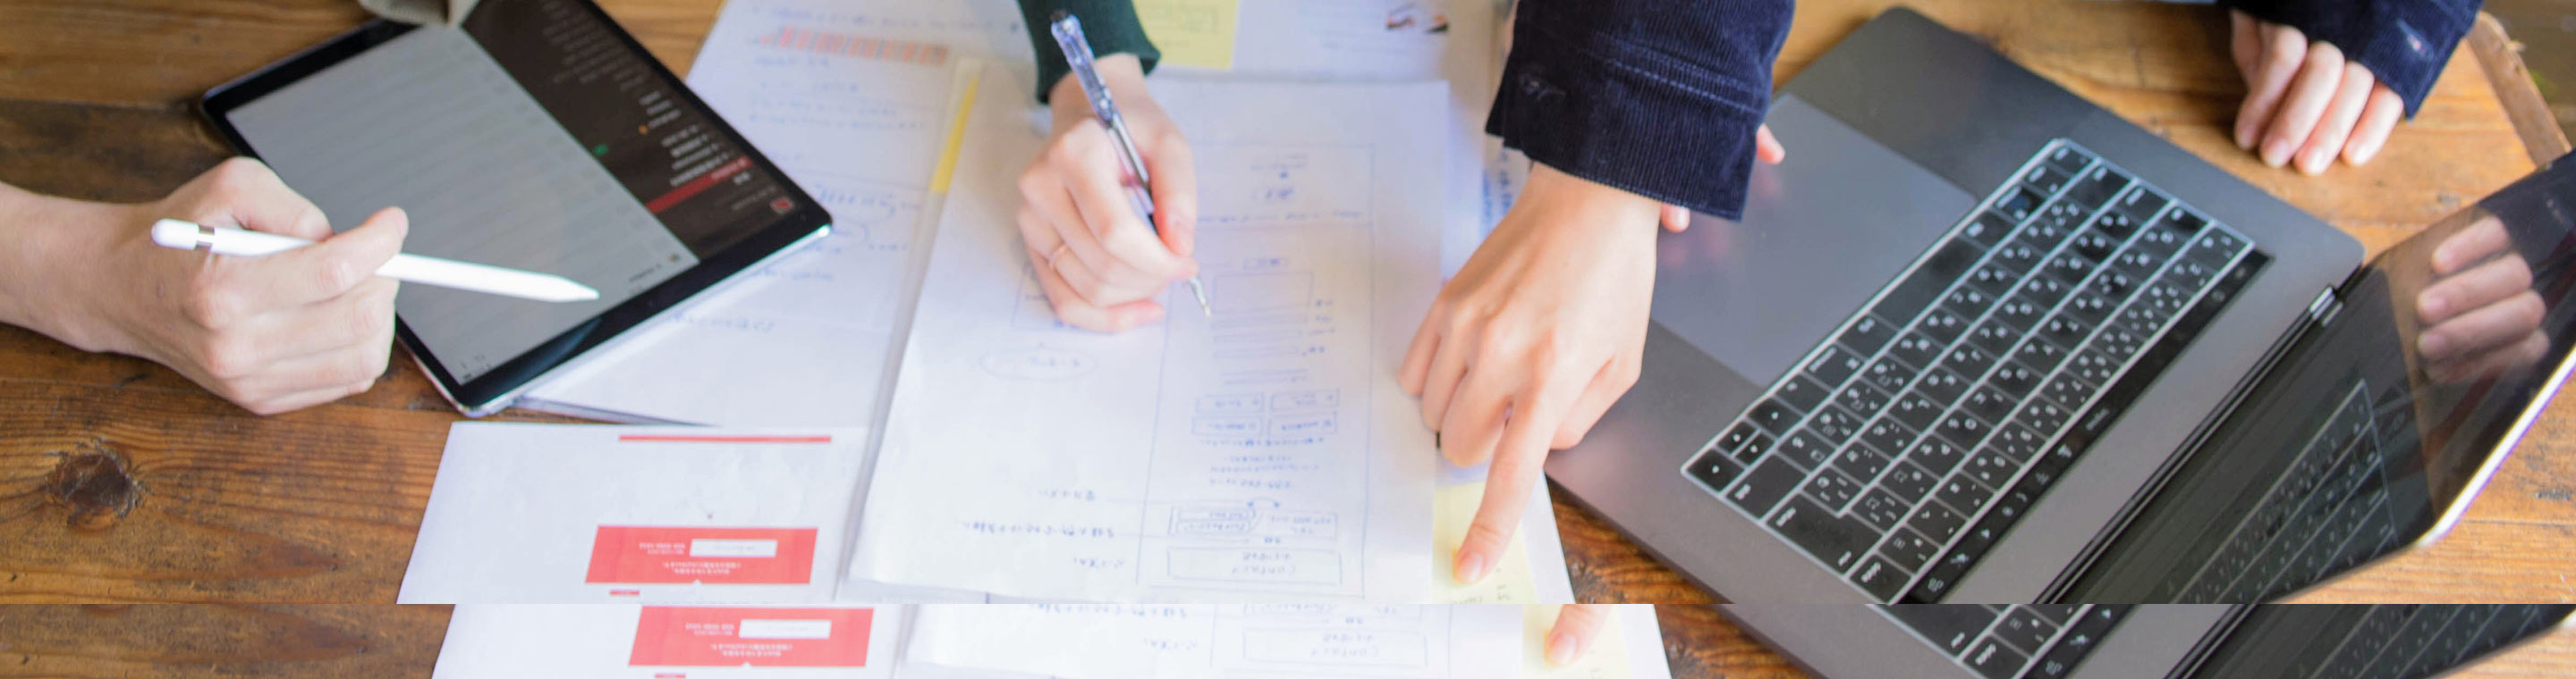
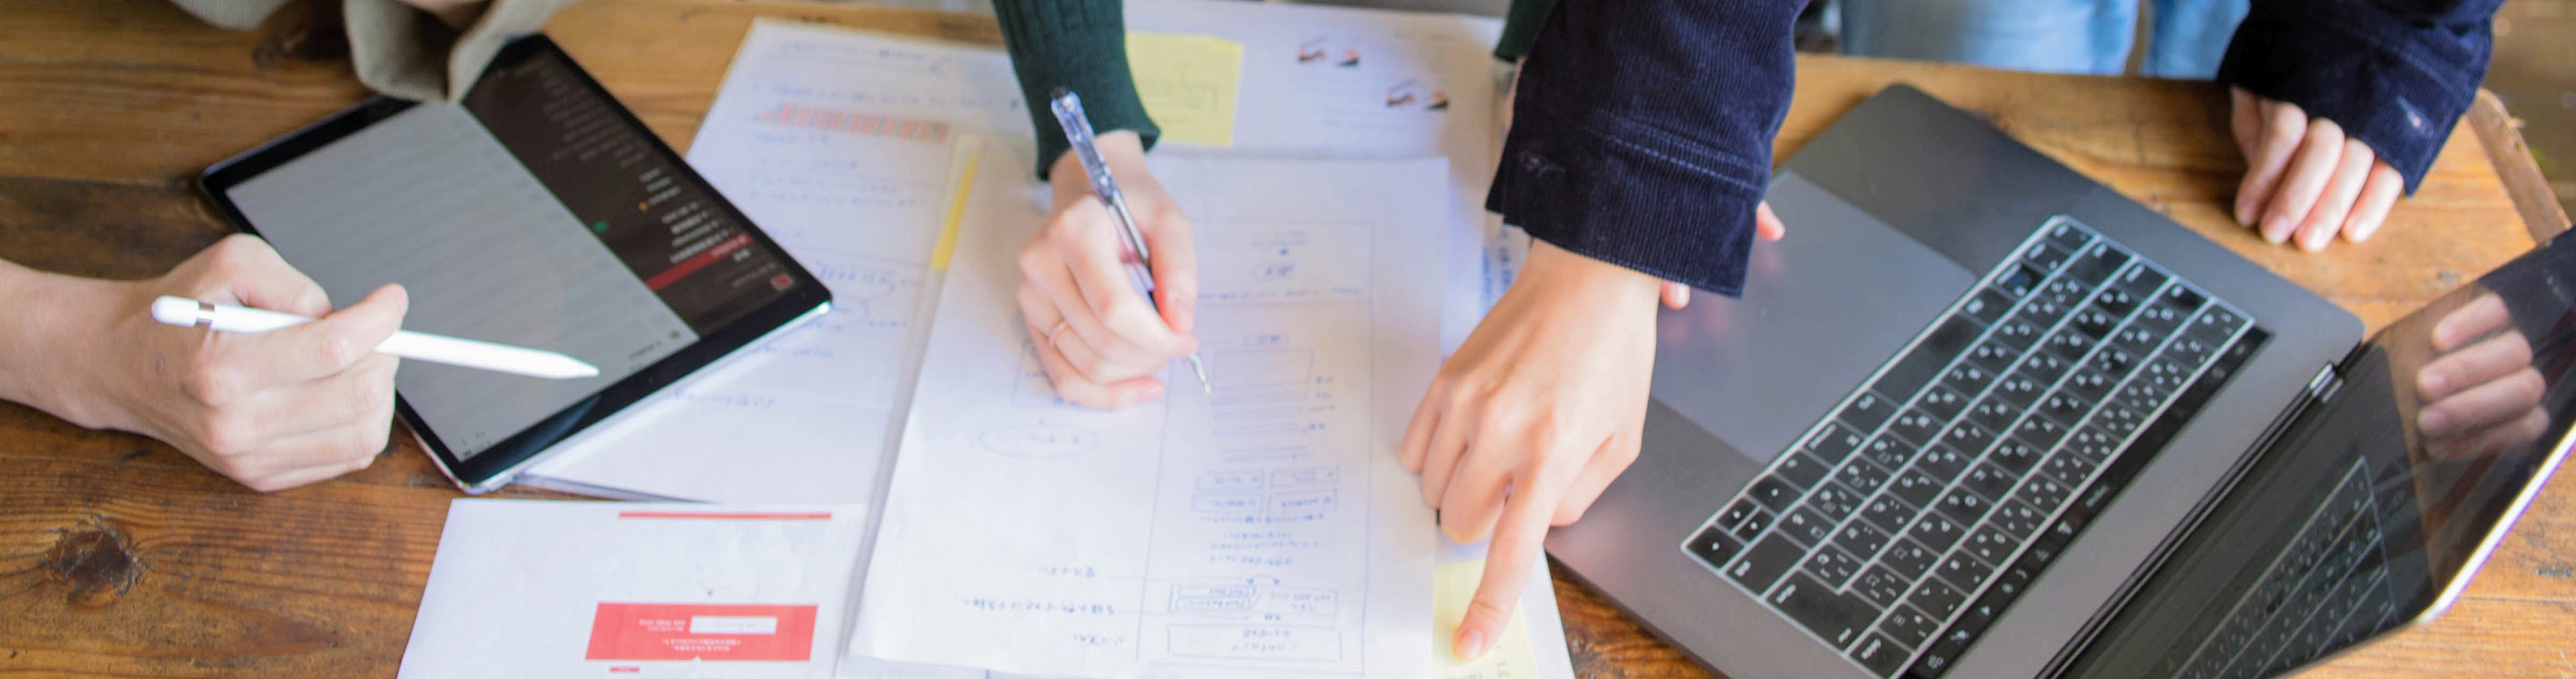
hero PC修正

diff --git a/components/Page/Index/Hero.vue b/components/Page/Index/Hero.vue
@@ -1,60 +1,57 @@
 <template>
   <section class="p-hero">
-    <div class="p-hero_content">
-      <div class="p-hero_heading">
-        「作る」だけじゃなく、<br>
-        「伝える」「語り合う」
+    <h2 class="p-hero__title">chatboxにできること</h2>
+    <div class="p-hero__wrap">
+      <div class="p-hero__backgound">
+        <div class="p-hero__backgoundFilter"></div>
       </div>
-      <div class="p-hero_desc">
-        「作る」だけじゃなく、「伝える」「語り合う」
-      </div>
-      <div class="p-hero_media">
-        <div class="c-bg">
-          <div class="c-media">
-            <div class="c-media_number">01</div>
-            <div class="c-media_container">
-              <p class="c-media_title">Web制作</p>
-              <img src="/images/serviceThumb_create.jpg" class="c-media_thumb">
-              <p class="c-media_sum">
-                最新技術で<br class="br-pc">しっかりサポート
-              </p>
-              <p class="c-media_desc">この文章はダミーです。文字の大きさ、量、字間、行間等を確認するために入れています。この文章はダミーです。</p>
-            </div>
-          </div>
-          <div class="c-media">
-            <div class="c-media_number">02</div>
-            <div class="c-media_container">
-              <p class="c-media_title">システム開発</p>
-              <img src="/images/serviceThumb_system.jpg" class="c-media_thumb">
-              <p class="c-media_sum">
-                最新技術で<br class="br-pc">しっかりサポート
-              </p>
-              <p class="c-media_desc">この文章はダミーです。文字の大きさ、量、字間、行間等を確認するために入れています。この文章はダミーです。</p>
-            </div>
-          </div>
-          <div class="c-media">
-            <div class="c-media_number">03</div>
-            <div class="c-media_container">
-              <p class="c-media_title">技術顧問</p>
-              <img src="/images/serviceThumb_support.jpg" class="c-media_thumb">
-              <p class="c-media_sum">
-                最新技術で<br class="br-pc">しっかりサポート
-              </p>
-              <p class="c-media_desc">この文章はダミーです。文字の大きさ、量、字間、行間等を確認するために入れています。この文章はダミーです。</p>
-            </div>
-          </div>
-          <div class="c-media">
-            <div class="c-media_number">04</div>
-            <div class="c-media_container">
-              <p class="c-media_title">イベント</p>
-              <img src="/images/serviceThumb_event.jpg" class="c-media_thumb">
-              <p class="c-media_sum">
-                最新技術で<br class="br-pc">しっかりサポート
-              </p>
-              <p class="c-media_desc">この文章はダミーです。文字の大きさ、量、字間、行間等を確認するために入れています。この文章はダミーです。</p>
-            </div>
-          </div>
+      <div class="p-hero__contents">
+        <div class="p-hero__catchCopy">
+          <h3 class="p-hero__catchCopyMain">「作る」だけじゃなく、<br>「伝える」、「語り合う」</h3>
+          <span class="p-hero__catchCopySub">作るだけじゃなく、伝える、語り合う</span>
         </div>
+        <ul class="p-hero__lists">
+          <li>
+            <a href="#" class="p-hero__listItem">
+              <div class="p-hero__listItemHeading">Web制作</div>
+              <div class="p-hero__listItemThumb"></div>
+              <div class="p-hero__listItemDescription">
+                <div class="p-hero__listItemDescriptionTitle">最新技術でしっかりサポート</div>
+                <span class="p-hero__listItemDescriptionText">この文章はダミーです。文字の大きさ、量、字間、行間等を確認するために入れています。この文章はダミーです。</span>
+              </div>
+            </a>
+          </li>
+          <li>
+            <a href="#" class="p-hero__listItem">
+              <div class="p-hero__listItemHeading">Web制作</div>
+              <div class="p-hero__listItemThumb" style="background: url('/images/serviceThumb_create.jpg')"></div>
+              <div class="p-hero__listItemDescription">
+                <div class="p-hero__listItemDescriptionTitle">最新技術でしっかりサポート</div>
+                <span class="p-hero__listItemDescriptionText">この文章はダミーです。文字の大きさ、量、字間、行間等を確認するために入れています。この文章はダミーです。</span>
+              </div>
+            </a>
+          </li>
+          <li>
+            <a href="#" class="p-hero__listItem">
+              <div class="p-hero__listItemHeading">Web制作</div>
+              <div class="p-hero__listItemThumb"></div>
+              <div class="p-hero__listItemDescription">
+                <div class="p-hero__listItemDescriptionTitle">最新技術でしっかりサポート</div>
+                <span class="p-hero__listItemDescriptionText">この文章はダミーです。文字の大きさ、量、字間、行間等を確認するために入れています。この文章はダミーです。</span>
+              </div>
+            </a>
+          </li>
+          <li>
+            <a href="#" class="p-hero__listItem">
+              <div class="p-hero__listItemHeading">Web制作</div>
+              <div class="p-hero__listItemThumb"></div>
+              <div class="p-hero__listItemDescription">
+                <div class="p-hero__listItemDescriptionTitle">最新技術でしっかりサポート</div>
+                <span class="p-hero__listItemDescriptionText">この文章はダミーです。文字の大きさ、量、字間、行間等を確認するために入れています。この文章はダミーです。</span>
+              </div>
+            </a>
+          </li>
+        </ul>
       </div>
     </div>
   </section>
@@ -65,77 +62,136 @@
   }
 </script>
 <style lang="scss" scoped>
+  @import "~assets/scss/layout/_layout.scss";
+  @import "~assets/scss/object/component/_container.scss";
   .p-hero {
-    background-image: none;
-    background-color: #C3504F;
-  }
-  .c-bg{
-    position: relative;
-    height: 81%;
-    width: 85%;
-    display: inline-flex;
-    flex-wrap:wrap;
-    justify-content:space-between;
-  }
-  .p-hero_baseImage {
-    width: 100%;
-  }
-  .p-hero_content {
-    height: 107%;
-    left: 0;
-    top: 0;
-  }
-  .p-hero_heading {
-    padding-top: 5%;
-    text-align: center;
-    color: #FFF;
-    font-size: 22px;
-    letter-spacing: 6px;
-    line-height: 2;
-    @media screen and (min-width: 768px) {
-        font-size: 30px;
-    }
-  }
-  .p-hero_desc {
-    margin-top: 10px;
-    text-align: center;
-    color: #FFF;
-    letter-spacing: 2px;
-    font-size: 12px;
-    @media screen and (min-width: 768px) {
-      .p-hero_desc {
-        font-size: 30px;
+
+    &__title {
+      margin-bottom: 2.5rem;
+      color: #C3504F;
+      text-align: center;
+      font-size: 2rem;
+      font-weight: bold;
+      letter-spacing: 4px;
+      @include desktop {
+        margin-bottom: 3.5rem;
+        font-size: 2.7rem;
+        letter-spacing: 6px;
       }
     }
 
-  }
-  .p-hero_media {
-    margin-top: 4%;
-    padding-top: 7%;
-    text-align: center;
-  }
-  @media screen and (min-width: 768px) {
-    .p-hero_media {
-      margin-top: 0;
-      margin-bottom:3%;
-      padding-top: 4%;
-      display: flex;
-    }
-    .p-hero {
-      background-image: url('/static/images/hero_background.jpg');
-      background-repeat: no-repeat;
-      background-size: contain;
-    }
-    .p-hero_content {
+    &__wrap {
+      background-color: #C3504F;
+      min-height: 800px;
       position: relative;
-      height: 44%;
-      left: 0;
-      top: 0;
     }
-  }
-  .br-pc{
-    @media screen and (min-width: 768px) {
-      display: none;
+    &__backgound  {
+      background: none;
+
+      @include desktop {
+        height: 450px;
+        background: url('/images/hero_background.jpg') no-repeat ;
+        background-position: center;
+        background-size: cover;
       }
+    }
+    &__backgoundFilter  {
+      height: 100%;
+      background-color: rgba(195,80,79,.6);
+    }
+    &__contents {
+      @include c-container;
+      max-width: 1100px;
+      z-index: 1000;
+      position: absolute;
+      left: 50%;
+      transform: translateX(-50%);
+      top: 70px;
+    }
+    &__catchCopy {
+      margin-bottom: 100px;
+      text-align: center;
+      color: #fff;
+    }
+    &__catchCopyMain {
+      display: block;
+      margin-bottom: 30px;
+      text-align: center;
+      font-size: 3rem;
+      font-weight: bold;
+      text-shadow: 1px 1px 2px rgba(0,0,0,0.4);
+      color: inherit;
+      line-height: 1.8;
+      letter-spacing: 6px;
+    }
+    &__catchCopySub {
+      display: inline-block;
+      font-size: 2rem;
+      color: inherit;
+
+    }
+    &__lists {
+      display: flex;
+      justify-content: space-between;
+
+    }
+    &__listItem {
+      display: block;
+      border-top: 3px solid #C3504F;
+      width: 250px;
+      max-width: 250px;
+      background: #F5F1F1;
+      text-decoration: none;
+      color: #393739;
+      position: relative;
+
+      &::before {
+        display: inline-block;
+        content: "01";
+        text-align: center;
+        line-height: 2.3;
+        font-size: 2rem;
+        color: #fff;
+        width: 70px;
+        height: 70px;
+        border-radius: 100%;
+        background: #C3504F;
+        position: absolute;
+        z-index: -10;
+        top: -40px;
+        left: 50%;
+        transform: translateX(-35px);
+      }
+    }
+    &__listItemHeading {
+      text-align: center;
+      padding: 2rem;
+      font-size: 1.8rem;
+      font-weight: bold;
+    }
+    &__listItemThumb {
+      width: 100%;
+      background: url('/images/serviceThumb_create.jpg') no-repeat;
+      background-size: cover;
+      background-position: center;
+      &::before {
+        content: "";
+        display: block;
+        padding-top: 50%;
+      }
+    }
+    &__listItemDescription {
+      padding: 2rem;
+    }
+    &__listItemDescriptionTitle {
+      margin-bottom: 1.5rem;
+      text-align: center;
+      font-size: 1.6rem;
+      font-weight: bold;
+    }
+    &__listItemDescriptionText {
+      line-height: 1.8;
+    }
+
   }
 </style>

diff --git a/assets/scss/foundation/_base.scss b/assets/scss/foundation/_base.scss
@@ -22,7 +22,7 @@
 @font-face {
   font-family: "Yu Gothic";
   src: local("Yu Gothic Medium");
-  font-weight: 400;
+  font-weight: bold;
 }
 @font-face {
   font-family: "Yu Gothic";
@@ -35,6 +35,7 @@ html,body{
   font-family: "Yu Gothic Medium","YuGothic Medium", YuGothic, "Yu Gothic",sans-serif;
   background-color: #FAF7F7;
   color: #393739;
+  line-height: 1.4;
   @include desktop(){
     font-size: 1.5rem;
   }

diff --git a/components/Header.vue b/components/Header.vue
@@ -60,7 +60,7 @@
       @include desktop(){
         display: inline-block;
         width: auto;
-        height: 7rem;
+        height: 6rem;
       }
     }
   }

diff --git a/assets/scss/app.scss b/assets/scss/app.scss
@@ -2,7 +2,6 @@
 
 @import "foundation/base";
 
-@import "./_c-media";
 @import "./_c-block";
 @import "./_c-balloon";
 @import "./_c-arrowButton";
